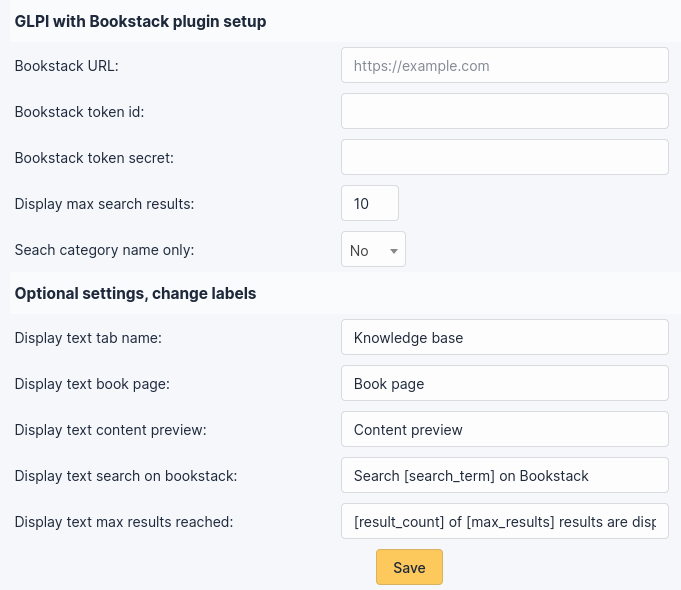
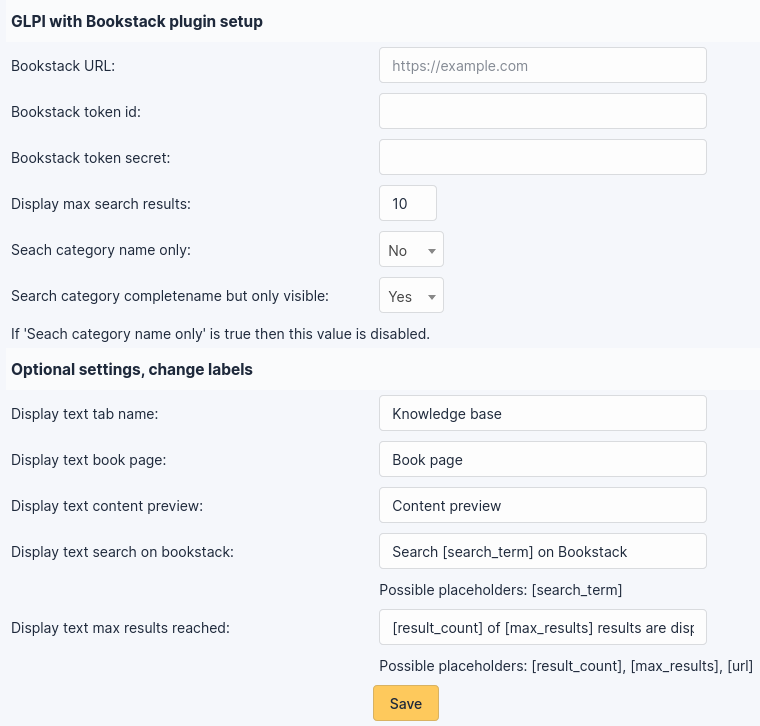
New option for search visible categories only, added some desription for settings, updated plugin details in xml

diff --git a/inc/integrate.class.php b/inc/integrate.class.php
@@ -32,24 +32,38 @@ class PluginGlpiwithbookstackIntegrate extends CommonGLPI
 		}
 		// Get GLPI database connection
 		global $DB;
-		// get the details of the category by id, we need the name of the category for the search
-		$result = $DB->request([
-			'SELECT' => '*',
-			'FROM'   => 'glpi_itilcategories',
-			'WHERE'  => ['id' =>  ($categoryid)]
-		]);
-		// only 1 should be returned so just get the current (and only) row
-		$row = $result->current();
 		/* build the search term
 		 * if setting search_category_name_only is true then cut top level categories and use category name only
 		 * if setting search_category_name_only is false then use the whole path like category > subcategory > subsubcategory
 		*/
+		$search = '';
 		if ($my_config['search_category_name_only'])
 		{
+			$result = $DB->request('SELECT name FROM glpi_itilcategories WHERE id = '.$categoryid);
+			// only 1 should be returned so just get the current (and only) row
+			$row = $result->current();
 			$search = str_replace(' ', '+', $row['name']);
 		}
+		else if ($my_config['search_category_completename_but_only_visible'])
+		{
+			$query = 'WITH RECURSIVE getParent AS (';
+			$query .= ' SELECT 1 AS row_num, id AS child_id, name AS child_name, itilcategories_id AS child_itilcategories_id, is_helpdeskvisible as child_is_helpdeskvisible FROM glpi_itilcategories WHERE id = ';
+			$query .= $categoryid;
+			$query .= ' UNION ALL';
+			$query .= ' SELECT row_num+1, id, name, itilcategories_id, is_helpdeskvisible FROM getParent, glpi_itilcategories WHERE id = child_itilcategories_id AND child_itilcategories_id <> 0)';
+			$query .= ' SELECT GROUP_CONCAT(child_name ORDER BY row_num DESC SEPARATOR \'+\') AS part_name FROM getParent WHERE child_is_helpdeskvisible = 1;';
+			$result = $DB->request($query);
+			// only 1 should be returned so just get the current (and only) row
+			$row = $result->current();
+			$search = str_replace(' ', '+', str_replace(' > ', ' ', ($row['part_name'])));
+		}
 		else
+		{
+			$result = $DB->request('SELECT completename FROM glpi_itilcategories WHERE id = '.$categoryid);
+			// only 1 should be returned so just get the current (and only) row
+			$row = $result->current();
 			$search = str_replace(' ', '+', str_replace(' > ', ' ', ($row['completename'])));
+		}
 		/*
 		 * Create 2 urls url_api and url_front and a href element for url display
 		 * url_api	 = url for api call

diff --git a/front/config.php b/front/config.php
@@ -83,6 +83,12 @@ echo "<td >" . __('Seach category name only:') . "</td>";
 echo "<td>";
 Dropdown::showYesNo("search_category_name_only", $my_config['search_category_name_only']);
 echo "</td></tr>";
+// yes or no dropdown for setting search_category_completename_but_only_visible
+echo "<td >" . __('Search category completename but only visible:') . "</td>";
+echo "<td>";
+Dropdown::showYesNo("search_category_completename_but_only_visible", $my_config['search_category_completename_but_only_visible']);
+echo "</td></tr>";
+echo "<tr><td colspan='2'>If 'Seach category name only' is true then this value is disabled.</td></tr>";
 /*
  * Optional: change the display texts for the labels
 */
@@ -107,11 +113,13 @@ echo "<td >" . __('Display text search on bookstack:') . "</td>";
 echo "<td>";
 echo "<input size='32' name='display_text_search_on_bookstack' value='".($my_config['display_text_search_on_bookstack'])."' placeholder='Search [search_term] on Bookstack'>";
 echo "</td></tr>";
+echo "<tr><td></td><td>Possible placeholders: [search_term]</td></tr>";
 // text field for display_text_max_results_reached
 echo "<td >" . __('Display text max results reached:') . "</td>";
 echo "<td>";
 echo "<input size='32' name='display_text_max_results_reached' value='".($my_config['display_text_max_results_reached'])."' placeholder='[result_count] of [max_results] results are displayed. Click here to view all: [url]'>";
 echo "</td></tr>";
+echo "<tr><td></td><td>Possible placeholders: [result_count], [max_results], [url]</td></tr>";
 /*
  * Hidden field for plugin config context
  * Save button

diff --git a/hook.php b/hook.php
@@ -41,6 +41,7 @@ function plugin_glpiwithbookstack_install()
     $config->setConfigurationValues('plugin:Glpiwithbookstack', ['bookstack_token_id' => '']);
     $config->setConfigurationValues('plugin:Glpiwithbookstack', ['bookstack_token_secret' => '']);
     $config->setConfigurationValues('plugin:Glpiwithbookstack', ['search_category_name_only' => false]);
+    $config->setConfigurationValues('plugin:Glpiwithbookstack', ['search_category_completename_but_only_visible' => true]);
     $config->setConfigurationValues('plugin:Glpiwithbookstack', ['display_max_search_results' => 10]);
     $config->setConfigurationValues('plugin:Glpiwithbookstack', ['display_text_tab_name' => 'Knowledge base']);
     $config->setConfigurationValues('plugin:Glpiwithbookstack', ['display_text_book_page' => 'Book page']);
@@ -65,6 +66,7 @@ function plugin_glpiwithbookstack_uninstall()
     $config->deleteConfigurationValues('plugin:Glpiwithbookstack', ['bookstack_token_id']);
     $config->deleteConfigurationValues('plugin:Glpiwithbookstack', ['bookstack_token_secret']);
     $config->deleteConfigurationValues('plugin:Glpiwithbookstack', ['search_category_name_only']);
+    $config->deleteConfigurationValues('plugin:Glpiwithbookstack', ['search_category_completename_but_only_visible']);
     $config->deleteConfigurationValues('plugin:Glpiwithbookstack', ['display_max_search_results']);
     $config->deleteConfigurationValues('plugin:Glpiwithbookstack', ['display_text_tab_name']);
     $config->deleteConfigurationValues('plugin:Glpiwithbookstack', ['display_text_book_page']);

diff --git a/setup.php b/setup.php
@@ -34,7 +34,7 @@ use Glpi\Plugin\Hooks;
 use GlpiPlugin\Glpiwithbookstack\TicketForm;
 use GlpiPlugin\Glpiwithbookstack\TicketIntegration;
 
-define('PLUGIN_GLPIWITHBOOKSTACK_VERSION', '1.0.0');
+define('PLUGIN_GLPIWITHBOOKSTACK_VERSION', '1.1.0');
 
 // Minimal GLPI version, inclusive
 define("PLUGIN_GLPIWITHBOOKSTACK_MIN_GLPI_VERSION", "10.0.0");
